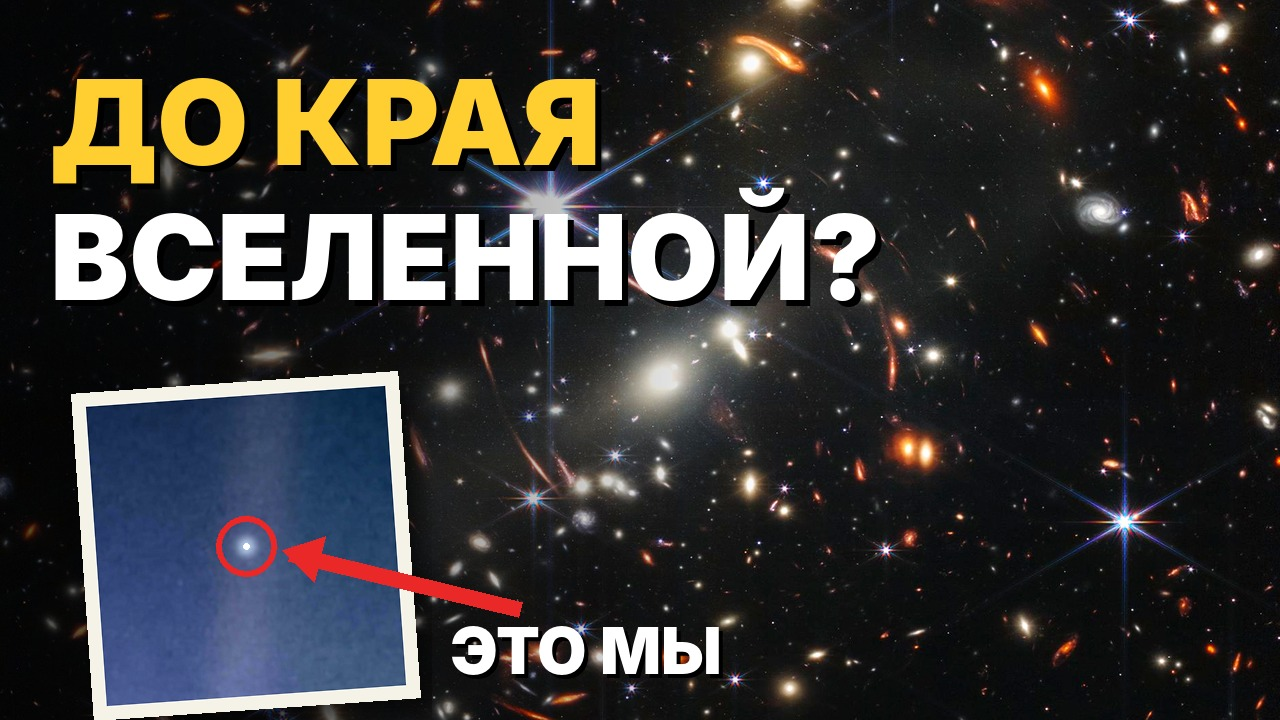
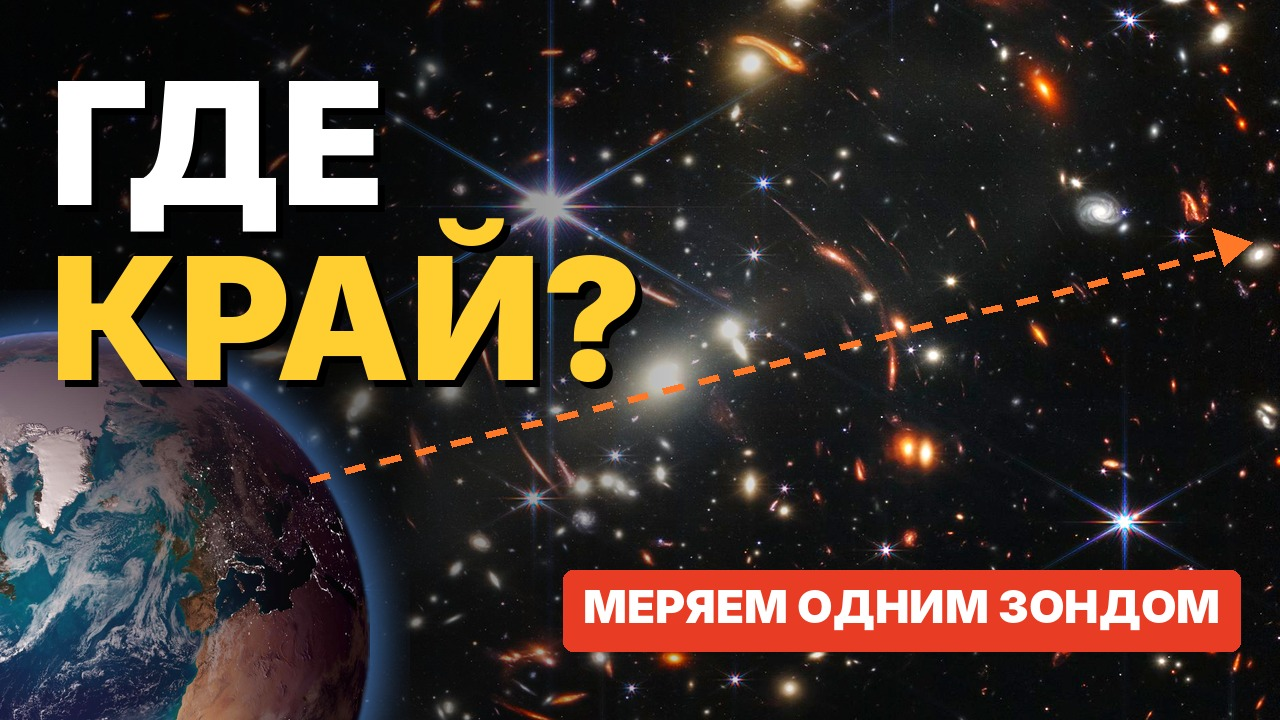
universe_size: cover v3 (Earth + Webb deep field, ГДЕ КРАЙ?)
Claude-Session: https://claude.ai/code/session_01RM84ZktC7yDNTdRACC84yR

diff --git a/ru_geo/universe_size/make_cover.py b/ru_geo/universe_size/make_cover.py
@@ -1,0 +1,36 @@
+from PIL import Image, ImageDraw, ImageFont, ImageEnhance, ImageFilter
+import numpy as np, sys
+W,H=1280,720
+F='/usr/share/fonts/opentype/inter/'
+YEL=(255,206,48); OR=(255,120,40)
+def text(d,xy,t,f,c,sh=7):
+    d.text((xy[0]+sh,xy[1]+sh),t,font=f,fill=(0,0,0)); d.text(xy,t,font=f,fill=c)
+im=Image.open('archive/img/jwst2.jpg').convert('RGB')
+w=im.width; h=w*9//16; bg=im.crop((0,(im.height-h)//2,w,(im.height-h)//2+h)).resize((W,H),Image.LANCZOS)
+bg=ImageEnhance.Contrast(bg).enhance(1.25); bg=ImageEnhance.Color(bg).enhance(1.3)
+a=np.asarray(bg).astype(np.float32); g=np.linspace(0,1,W)[None,:,None]; a*=(0.25+0.75*np.clip((g-0.15)/0.55,0,1))
+bg=Image.fromarray(a.clip(0,255).astype(np.uint8)).convert('RGBA')
+e=Image.open('archive/img/blue_marble.jpg').convert('RGB')
+ea=np.asarray(e.convert('L')); ys,xs=np.nonzero(ea>25); cx,cy=(xs.min()+xs.max())/2,(ys.min()+ys.max())/2; r=max(xs.max()-xs.min(),ys.max()-ys.min())/2
+e=e.crop((int(cx-r),int(cy-r),int(cx+r),int(cy+r))); D=620; e=e.resize((D,D),Image.LANCZOS); e=ImageEnhance.Color(e).enhance(1.2)
+m=Image.new('L',(D,D),0); ImageDraw.Draw(m).ellipse((2,2,D-2,D-2),fill=255); m=m.filter(ImageFilter.GaussianBlur(1.5))
+gl=Image.new('RGBA',(D+80,D+80),(0,0,0,0)); gm=Image.new('L',(D+80,D+80),0); ImageDraw.Draw(gm).ellipse((30,30,D+50,D+50),fill=160); gm=gm.filter(ImageFilter.GaussianBlur(18))
+gl.paste((90,160,255,255),(0,0),gm)
+EX,EY=-250,330
+bg.alpha_composite(gl,(EX-40,EY-40)); e=e.convert('RGBA'); e.putalpha(m); bg.alpha_composite(e,(EX,EY))
+d=ImageDraw.Draw(bg)
+x0,y0=EX+D//2+250,EY+150; x1,y1=1230,250
+n=26
+for i in range(n):
+    t0=i/n; t1=(i+0.55)/n
+    d.line([(x0+(x1-x0)*t0,y0+(y1-y0)*t0),(x0+(x1-x0)*t1,y0+(y1-y0)*t1)],fill=OR,width=7)
+d.polygon([(x1+22,y1-8),(x1-18,y1-22),(x1-6,y1+16)],fill=OR)
+big=ImageFont.truetype(F+'Inter-Black.otf',170)
+text(d,(50,40),'ГДЕ',big,(255,255,255))
+text(d,(50,215),'КРАЙ?',big,YEL)
+sm=ImageFont.truetype(F+'Inter-Black.otf',46)
+t='МЕРЯЕМ ОДНИМ ЗОНДОМ'; bb=d.textbbox((0,0),t,font=sm)
+X,Y=W-40-(bb[2]+40),570
+d.rounded_rectangle((X,Y,X+bb[2]+40,Y+bb[3]+28),10,fill=(232,60,36))
+d.text((X+20,Y+8),t,font=sm,fill=(255,255,255))
+bg.convert('RGB').save(sys.argv[1],quality=92)

diff --git a/ru_geo/universe_size/UPLOAD_KIT.md b/ru_geo/universe_size/UPLOAD_KIT.md
@@ -32,4 +32,4 @@
 Какое число в ролике вас удивило больше всего: 75 000 лет, 29 000 км на модели или 93 млрд световых лет?
 
 ## Обложка
-Готова: cover.jpg (1280×720). Фон: первое глубокое поле «Уэбба» (NASA, ESA, CSA, STScI). Карточка: Земля на снимке «Вояджера-1» «Бледная голубая точка» (NASA/JPL-Caltech, PIA23645), красный круг и стрелка «ЭТО МЫ». Надпись «ДО КРАЯ ВСЕЛЕННОЙ?». Идея по самым просматриваемым обложкам темы: 2–3 крупных слова и контраст масштаба.
+Готова: cover.jpg (1280×720), собирается make_cover.py. Фон: первое глубокое поле «Уэбба» (NASA, ESA, CSA, STScI). Земля: NASA Blue Marble. Пунктир от Земли вглубь галактик, надпись «ГДЕ КРАЙ?», плашка «МЕРЯЕМ ОДНИМ ЗОНДОМ».
